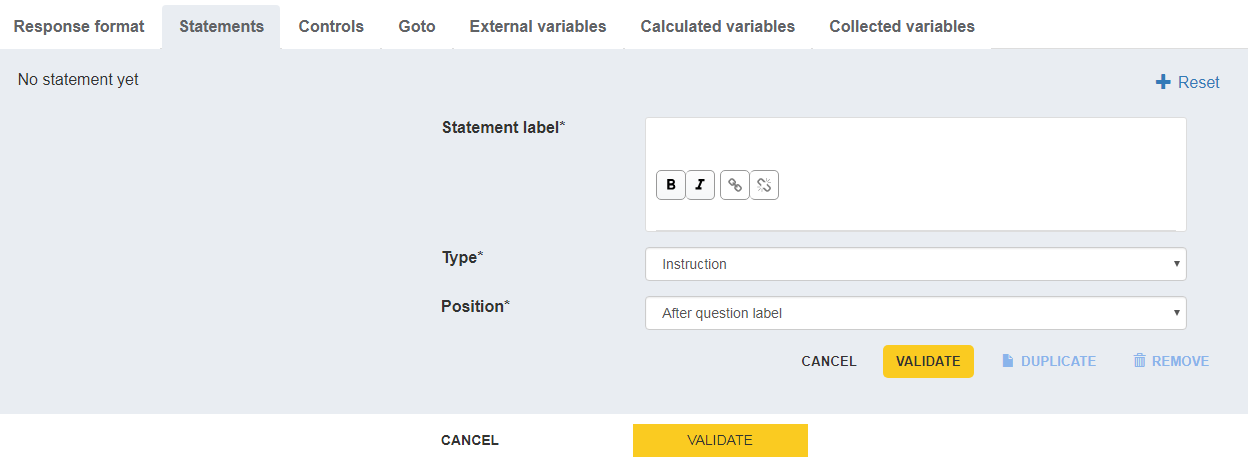
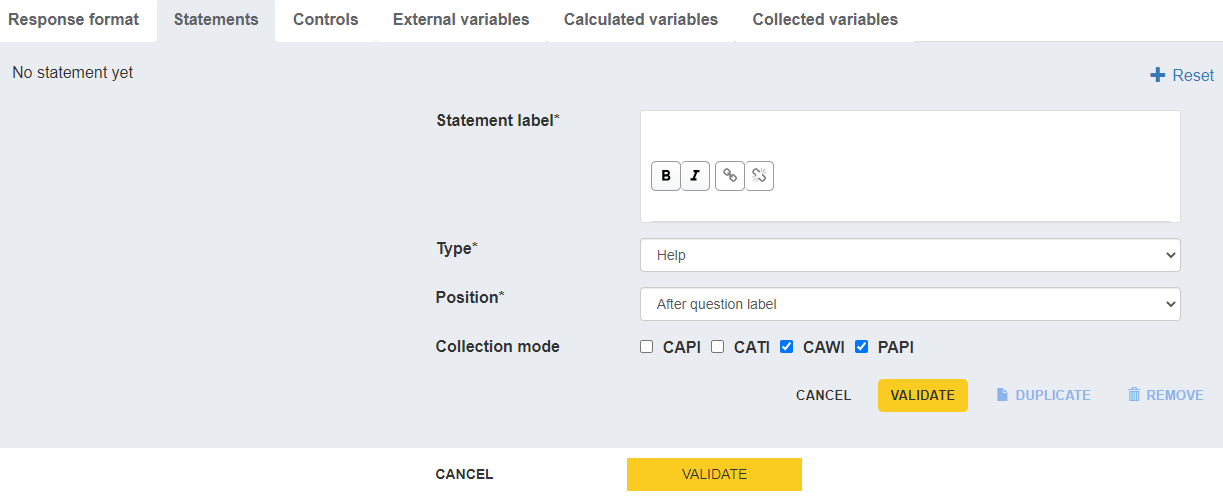
Update user documentation for new release

diff --git a/docs/fr/guide-utilisateur/guide-utilisateur.md b/docs/fr/guide-utilisateur/guide-utilisateur.md
@@ -1,5 +1,5 @@
 # Guide utilisateur Pogues
-Version au 01/03/2021
+Version au 01/04/2021
 
 ---
 
@@ -211,12 +211,29 @@ Si la question est de type Réponse à choix unique, renseigner :
 
 Si la question est de type Réponse à choix unique, renseigner (suite) :
 -   Spécifier la liste de codes soit via :
-    -   Créer une liste. Dans ce cas :
-    	-   Donner un nom signifiant à la Nouvelle liste de codes et entrer pour chaque modalité de réponse, le code de la modalité et son libellé au fur et à mesure via le bouton "Ajouter un Code".
-    -   Retrouver dans le référentiel (non fontionnel à ce jour)  : proposera les listes de codes précédemment créées pour l'ensemble des questionnaires publiés dans RMéS depuis Pogues. Sera particulièrement utile pour les listes connues et longues (départements, nomenclatures, etc.).
-    -   Retrouver dans le questionnaire : propose les listes de codes précédemment créées pour le questionnaire    
-- Valider
-  		
+     - Créer une liste. Dans ce cas :
+ 
+    	- Donner un nom à la Nouvelle liste de codes puis soit :
+    		-  entrer pour chaque modalité de réponse, le code de la modalité et son libellé au fur et à mesure via le bouton "Ajouter un Code".
+    		-  "importer une liste de codes" via un fichier csv en utf8 et respectant le format de fichier suivant :
+    		Parent;Value;Label;
+			;1;libellé 1;
+			;2;libellé 2;
+
+	Parent stockera le code parent lorsque la liste de codes est hiérarchique 		et sera donc vide en général.
+	Value stockera le code de chaque modalité.
+	Label stockera le libellé de chaque modalité.
+
+---
+
+- 
+	- 	Retrouver dans le référentiel (non fontionnel à ce jour)  : proposera les listes de codes précédemment créées pour l'ensemble des questionnaires publiés dans RMéS depuis Pogues
+	- Retrouver dans le questionnaire : propose les listes de codes précédemment créées pour le questionnaire
+   
+ - Valider
+   
+A noter pour ces deux fonctionnalités la possibilité de dupliquer une liste de codes pour en créer une variante en cochant la case dédiée. Le titre de la liste initiale sera suffixé par _2 dans un premier temps pour la liste issue de la duplication puis sera modifiable par vos soins dans Pogues.
+
 ---
 
 # Création d'une question de type Réponse à choix multiples
@@ -230,10 +247,25 @@ Si la question est de type Réponse à choix unique, renseigner (suite) :
 Si j'ai créé une question de type Réponse à choix multiples, renseigner :
 - Spécifier la liste de codes soit via :
    - Créer une liste. Dans ce cas :
-    	- Donner un nom signifiant à la Nouvelle liste de codes et entrer pour chaque modalité de réponse, le code de la modalité et son libellé au fur et à mesure via le bouton "Ajouter un Code".
-   - Retrouver dans le référentiel (non fontionnel à ce jour)  : proposera les listes de codes précédemment créées pour l'ensemble des questionnaires publiés dans RMéS depuis Pogues
-   - Retrouver dans le questionnaire : propose les listes de codes précédemment créées pour le questionnaire
-    
+    	- Donner un nom à la Nouvelle liste de codes puis soit :
+    		-  entrer pour chaque modalité de réponse, le code de la modalité et son libellé au fur et à mesure via le bouton "Ajouter un Code".
+    		-  "importer une liste de codes" via un fichier csv en utf8 et respectant le format de fichier suivant :
+    		Parent;Value;Label;
+			;1;libellé 1;
+			;2;libellé 2;
+
+	Parent stockera le code parent lorsque la liste de codes est hiérarchique 		et sera donc vide en général.
+	Value stockera le code de chaque modalité.
+	Label stockera le libellé de chaque modalité.
+
+---
+- 
+	- 	Retrouver dans le référentiel (non fontionnel à ce jour)  : proposera les listes de codes précédemment créées pour l'ensemble des questionnaires publiés dans RMéS depuis Pogues
+	- Retrouver dans le questionnaire : propose les listes de codes précédemment créées pour le questionnaire
+   
+ - Valider
+   
+A noter pour ces deux fonctionnalités la possibilité de dupliquer une liste de codes pour en créer une variante en cochant la case dédiée. Le titre de la liste initiale sera suffixé par _2 dans un premier temps pour la liste issue de la duplication puis sera modifiable par vos soins dans Pogues.
   		
 ---
 
@@ -357,17 +389,17 @@ Dans l'onglet "Déclarations", renseigner :
 # Création d'une déclaration (suite)
 
 - le type de la déclaration, parmi:
-	- Consigne
-    - Commentaire
-    - Aide
-    - Avertissement
-NB : il n'existe pas de différence de comportement ou d'affichage sur le questionnaire selon le type de déclaration, donc pas de différence pour l'enquêté et pas vraiment pour le concepteur d'enquête. Cependant, puisque l'information est stockée précisément dans le DDI, l'affichage pourrait différer un jour (ce n'est pas prévu pour l'instant). Nous conseillons donc de renseigner ce qui paraît le plus proche du type de la déclaration, sans trop raffiner cependant.
+	- Aide (quand elle concerne le répondant, quelque soit le mode)
+    - Consigne (quand elle ne concerne que l'enquêteur)
+    - Carte-Code (pour les questions où l'enquêteur sera amené à présenter une carte-code à l'enquêté)
+
 
 ---
 
 # Création d'une déclaration (fin)
 
 - Position : avant ou après le libellé de question
+- Mode de collecte : pour préciser le mode de collecte concerné par la déclaration
 - Valider
         
 NB : il est également possible de supprimer ou dupliquer une déclaration
@@ -696,11 +728,17 @@ and (((number(substring(\$SIREN\$,1,1))*2
                      + number(substring(\$SIREN\$,14,1))) mod 10) != 0)
 
 ---
+
 # Style gras/italique
 
 Il est actuellement possible de mettre du gras et/ou de l'italique sur des éléments textuels via les boutons dédiés (cf. copie d'écran en page suivante) au sein des libellés de déclaration ou de liste de codes.
 NB : les boutons gras et italique sont également disponibles pour les libellés de question mais le générateur de questionnaire Eno ne prend pas en compte la mise en forme spécifiée. En effet, conformément aux bonnes pratiques d'ergonomie d'un questionnaire, tous les libellés de questions s'affichent en gras sur le web. Les boutons gras et italique ne sont pas disponibles pour les libellés de séquence ou de sous-séquence.
 NB2 : le gras est visible aussi côté pdf, mais pas l'italique (normal ou bug ?)
+
+---
+
+# Style gras/italique (suite)
+![](../../img/fr/ecran18.png)
 
 ---
 # Création d'une boucle (1)
@@ -717,13 +755,17 @@ Renseigner :
 
 - Identifiant : obligatoire, identifiant métier de la boucle, à votre discrétion. 
 
-- Maximum : facultatif, nombre maximal d’occurrences de la boucle, utile uniquement pour les boucles qui ne s’appuient pas sur un tableau dynamique ou une boucle préalable.
+- Maximum : facultatif, obligatoire seulement si Minimum est renseigné, nombre maximal d’occurrences de la boucle, utile uniquement pour les boucles qui ne s’appuient pas sur un tableau dynamique ou une boucle préalable.
+
+- Minimum : facultatif, obligatoire seulement si Maximum est renseigné, nombre minimal affiché d’occurrences de la boucle, utile uniquement pour les boucles qui ne s’appuient pas sur un tableau dynamique ou une boucle préalable.
+---
+# Création d'une boucle (3)
 
 - Basé sur  : facultatif, permet d’indiquer si la boucle doit se baser sur un tableau dynamique ou une autre boucle
 Exemple : Ecmoss (boucle des questions posées aux salariés décrit dans l’échantillon qui se base sur le tableau dynamique les listant), VQS (boucle contenant les questions posées aux individus décrits en début de questionnaire, qui se base sur la première boucle qui permet de présenter chaque habitant du logement).
 
 ---
-# Création d'une boucle (3)
+# Création d'une boucle (4)
 
 - Sauf : facultatif, permet d’indiquer via une formule les unités à exclure de la boucle (exemple : les mineurs). Attention : ce filtre ne s’applique actuellement qu’à des variables qualitatives. Pour une restriction sur l’âge par exemple, il faut raisonner sur une indicatrice (par exemple on définit TRANCHE_AGE*  = ‘1’ pour les mineurs,  TRANCHE_AGE = ‘2’ pour les autres) : exclure les mineurs s’écrira : \$TRANCHE_AGE$ =’1’ 
 *Par exemple avec une variable calculée ayant une formule du type 
@@ -731,19 +773,19 @@ if (\$AGE$<18) then ‘1’ else ‘2’
 Prévoir aussi au cas où la variable  filtrante est non renseignée. Dans l’exemple sur l’âge, il faut savoir si on souhaite afficher ou non les individus dont l’âge est non renseigné.
 
 ---
-# Création d'une boucle (4)
+# Création d'une boucle (5)
 
 - Début : obligatoire, permet d’indiquer le premier élément (séquence ou sous-séquence) sur lequel boucler
 
 - Fin : obligatoire, permet d’indiquer le dernier élément (séquence ou sous-séquence) sur lequel boucler. Quand la boucle se compose d’une unique séquence ou sous-séquence, Début et Fin seront identiques.
 
-- Libellé du bouton d’ajout : facultatif, libellé du bouton d’ajout d’une occurrence de boucle quand il existe. Exemple : Ajouter un produit, Ajouter un service, Ajouter un individu
+- Libellé du bouton d’ajout : facultatif, libellé du bouton d’ajout d’une occurrence de boucle quand il existe et que minimum et maximum de la boucle sont différents. Exemple : Ajouter un produit, Ajouter un service, Ajouter un individu
 Si « Basé sur » est renseigné, alors ce bouton ne doit pas être rempli, puisque la boucle se base sur une boucle précédente.
 
 Valider
 
 ---
-# Création d'une boucle (5)
+# Création d'une boucle (6)
 
 Si vous souhaitez relire la spécification d’une boucle et/ou la modifier et/ou la supprimer, vous retrouverez l’ensemble des boucles spécifiées à gauche de l’écran d’édition/modification de questionnaires dans Pogues, sous la liste des séquences.
 A noter qu’en attente des moyens informatiques ad hoc, les boucles ne sont pas actuellement éditées dans le format spécification odt.
@@ -751,12 +793,11 @@ A noter qu’en attente des moyens informatiques ad hoc, les boucles ne sont pas
 ![](../../img/fr/boucle2.png)
 
 ---
+# Ajouter un questionnaire existant
+Il est désormais possible de fusionner deux questionnaires en cliquant depuis le questionnaire que l'on souhaite placer en premier sur le bouton +Questionnaire (en bas de l’IHM et à droite de Visualiser). Vous pouvez alors choisir parmi les questionnaires de votre timbre (attention cependant à bien définir en amont les mêmes modes de collecte pour le questionnaire initial et le questionnaire à lui ajouter ensuite), celui que vous souhaitez lui ajouter à la suite. Si certains éléments partagent le même identifiant, l’identifiant de la deuxième occurrence sera suffixée par _2, à l'exception des listes de codes partageant le même identifiant technique (si les deux listes sont différentes, c'est celle du deuxième questionnaire qui sera prise en compte).
 
-# Style gras/italique (suite)
-![](../../img/fr/ecran18.png)
 
 ---
-
 # Fonctionnalités liés à un élément du questionnaire
 Sur chaque élément créé du questionnaire de type séquence/sous-séquence ou question, on trouve les boutons "Voir le détail", "Visualiser" (Web,PDF,Spécification ou DDI) et "Supprimer".
 Sur un élément question, on trouve également le bouton "Dupliquer".
@@ -826,7 +867,6 @@ Les contrôles d'intégrité du questionnaire suivants sont actuellement implém
 
 - Le lien entre Pogues et RMéS et notamment publier le questionnaire ou réutiliser une question ou une liste de codes (exemple départements, pays, nomenclature) du référentiel 
 - Conditionner le libellé d'une question selon les réponses précédemment obtenues 
-- Dupliquer une liste de codes pour en créer une variante
 - Le bouton "Saut de page" en bas au centre de l'IHM Pogues
 - paramétrages du pdf (nombre de colonnes, mise en page portrait ou paysage, type de saisie, numérotation, nombre de questions par page)
 ---
@@ -846,7 +886,7 @@ choix du type de numérotation parmi :
  
  ---
  # Ce que l'on ne fera pas dans Pogues
- - Spécifier si la redirection est de type filtre masqué (elle l'est par défaut) ou filtre grisé
+ - Spécifier si la redirection ou le filtre est de type filtre masqué (elle l'est par défaut) ou filtre grisé
 *complément DDI manuel* 
 
 

diff --git a/docs/en/user-guide/user-guide.md b/docs/en/user-guide/user-guide.md
@@ -1,6 +1,6 @@
 # User guide for Pogues
 
-Last release 2021/03/01
+Last release 2021/04/01
 
 ---
 
@@ -212,10 +212,26 @@ For a single choice response question, fill in : (1)
 For a single choice response question, fill in : (2)
 -   Specify the code list with :
     -   Create a list. In this case :
-    	-   Give a significant name to the New code list and fill in for each response modality, a code and a label, progressively with the "Add" button.
+    	- Give a name to the New code list and then either :
+    		- enter for each modality, the code of the modality and its label as you go along via the "Add a code" button.
+    		- "import a code list" via a csv file in utf8 and respecting the following file format:
+    		Parent;Value;Label;
+			;1;label 1;
+			;2;label 2;
+
+	Parent will store the parent code when the code list is hierarchical and will therefore be empty in general.
+	Value will store the code of each modality.
+	Label will store the label of each modality.
+
+---
+-
     -   Retrieve in the repository (not working now)  : will soon propose the code lists previously created for all questionnaires published in RMéS from Pogues. Will be particularly useful for long code lists (countries, nomenclatures, etc.).
     -   Retrieve in the questionnaire : proposes the code lists previously created for the questionnaire
+
 - Validate
+
+Note for these two features the possibility to duplicate a list of codes to create a variant by checking the dedicated box. The title of the initial list will be suffixed by _2 at first for the list resulting from the duplication then will be modifiable by your care in Pogues.
+    
   		
 ---
 
@@ -228,9 +244,25 @@ For a single choice response question, fill in : (2)
 For a multiple choice response question, fill in : (1)
 -   Specify the code list with :
     -   Create a list. In this case :
-    	-   Give a significant name to the New code list and fill in for each response modality, a code and a label, progressively with the "Add" button.
+    	- Give a name to the New code list and then either :
+    		- enter for each modality, the code of the modality and its label as you go along via the "Add a code" button.
+    		- "import a code list" via a csv file in utf8 and respecting the following file format:
+    		Parent;Value;Label;
+			;1;label 1;
+			;2;label 2;
+
+	Parent will store the parent code when the code list is hierarchical and will therefore be empty in general.
+	Value will store the code of each modality.
+	Label will store the label of each modality.
+
+---
+-
     -   Retrieve in the repository (not working now)  : will soon propose the code lists previously created for all questionnaires published in RMéS from Pogues. Will be particularly useful for long code lists (countries, nomenclatures, etc.).
     -   Retrieve in the questionnaire : proposes the code lists previously created for the questionnaire
+
+- Validate
+
+Note for these two features the possibility to duplicate a list of codes to create a variant by checking the dedicated box. The title of the initial list will be suffixed by _2 at first for the list resulting from the duplication then will be modifiable by your care in Pogues.
     
   		
 ---
@@ -354,10 +386,9 @@ In the "Statements", fill in :
 # Creation of a statement (2)
 
 - a type among :
-	- Instruction
-    - Comment
-    - Help
-    - Warning
+	- Help (for statement regarding the respondent, whatever the collect mode)
+	- Instruction (for statement regarding only the interviewer)
+    - Codecard (when the interviewer must show a code card to the respondent)
 NB : there is no difference now depending on the type of the statement, therefore no difference for the respondent. But, as the information is precisely saved in the DDI file, statements could be one day displayed differently, depending on their type (it is not expected now). We advice therefore to choose the type which seems to you the closest to the statement type, without refining however.
 
 ---
@@ -365,6 +396,7 @@ NB : there is no difference now depending on the type of the statement, therefor
 # Creation of a statement (3)
 
 - Position : before or after question label
+- Collection Mode: to specify the mode of collection concerned by the statement
 - Validate
         
 NB : you can also delete or duplicate a statement
@@ -621,6 +653,14 @@ else 0
 The age in difference of vintage will be given by the formula : \$CURRENTYEAR\$-\$YEARBIRTH\$
 
 ---
+
+# Style : Bold or Italic
+
+You can put some words in bold or italic with the buttons surrounded in red in the screenshot below
+
+![](../../img/en/screen18.png)
+
+---
 # Creation of a loop (1)
 A loop is a set of questions (consecutive sequences or subsequences of the questionnaire) that will be asked at n "occurrences" (e.g. individuals, products, employees).
 
@@ -633,7 +673,9 @@ Fill in :
 
 - Id: compulsory, Id for the loop, at your discretion. 
 
-- Maximum: optional, maximum number of occurrences of the loop, useful only for loops that are not based on a dynamic table or a previous loop.
+- Maximum: optional, required only if Minimum is set, maximum number of occurrences of the loop, useful only for loops that are not based on a dynamic table or a previous loop
+
+-  Minimum: optional, required only if Maximum is set, minimum number of loop occurrences displayed, useful only for loops that are not based on a dynamic array or a previous loop
 
 - Based on: optional, allows you to indicate whether the loop should be based on a dynamic table or another loop.
 
@@ -651,7 +693,7 @@ Also provide for the case where the filter variable is not filled in. In the exa
 
 - End: obligatory, allows you to indicate the last element (sequence or sub-sequence) on which to loop. When the loop consists of a single sequence or sub-sequence, Start and End will be identical.
 
-- Add button label: optional, label of the add button of a loop occurrence when it exists. Example: Add a product, Add a service, Add an individual
+- Add button label: optional, label of the add button of a loop occurrence when it exists and when Minimum is different from Maximum. Example: Add a product, Add a service, Add an individual
 If "Based on" is entered, then this button does not need to be filled in, as the loop is based on a previous loop.
 
 Validate
@@ -663,14 +705,16 @@ Please note that, pending the availability of ad hoc computer resources, the loo
 
 ![](../../img/en/loop2.png)
 
----
-# Style : Bold or Italic
 
-You can put some words in bold or italic with the buttons surrounded in red in the screenshot below
-
-![](../../img/en/screen18.png)
 
 ---
+
+# Adding an existing questionnaire
+
+It is now possible to merge two questionnaires by clicking on the +Questionnaire button (at the bottom of the GUI and to the right of the Visualise button) from the questionnaire you wish to place first. You can then choose among the questionnaires you own (be careful to define beforehand the same collection modes for the initial questionnaire and the questionnaire to be added afterwards), the one you wish to add to it afterwards. If some elements share the same identifier, the identifier of the second occurrence will be suffixed by _2, excepting codelist sharing the same technical id (if the two lists are different, the one from the second questionnaire will be taken into account).
+
+---
+
 
 # Functionalities related to a questionnaire element
 On each created element of the sequence/sub-sequence or question type questionnaire, there are the "Show the detail", "Visualise" (Web,PDF,Specification or DDI) and "Delete" buttons.
@@ -741,7 +785,6 @@ The following questionnaire integrity checks are currently being implemented:
 *Can be filled in but is not taken into account in the display of the questionnaire*
 - The link between Pogues and RMéS and in particular to publish the questionnaire or reuse a question or a code list (e.g. departments, countries, nomenclature) from the repository 
 - Condition the label of a question according to the answers previously obtained 
-- Duplicate a code list to create a variant
 - The "Page break" button at the bottom center of the interface Pogues
 - pdf settings (number of columns, portrait or landscape layout, type of entry, numbering, number of questions per page)
 ---
@@ -759,6 +802,6 @@ choice of numbering type among:
  
  ---
  # What we won't do in Pogues
- - Specify if the redirection is of type hidden filter (it is by default) or grayed filter
+ - Specify if the redirection or filter is of type hidden filter (it is by default) or grayed filter
 *manual DDI add-on* 
 
